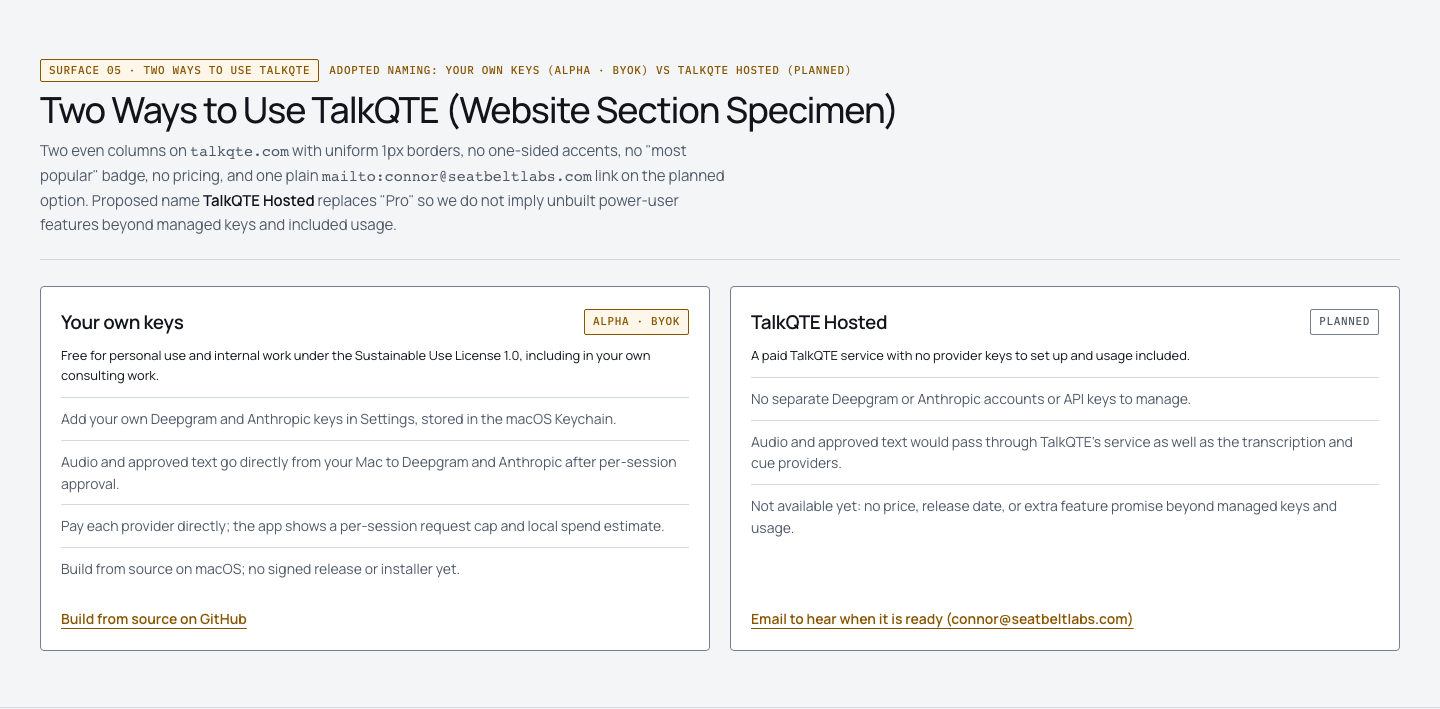
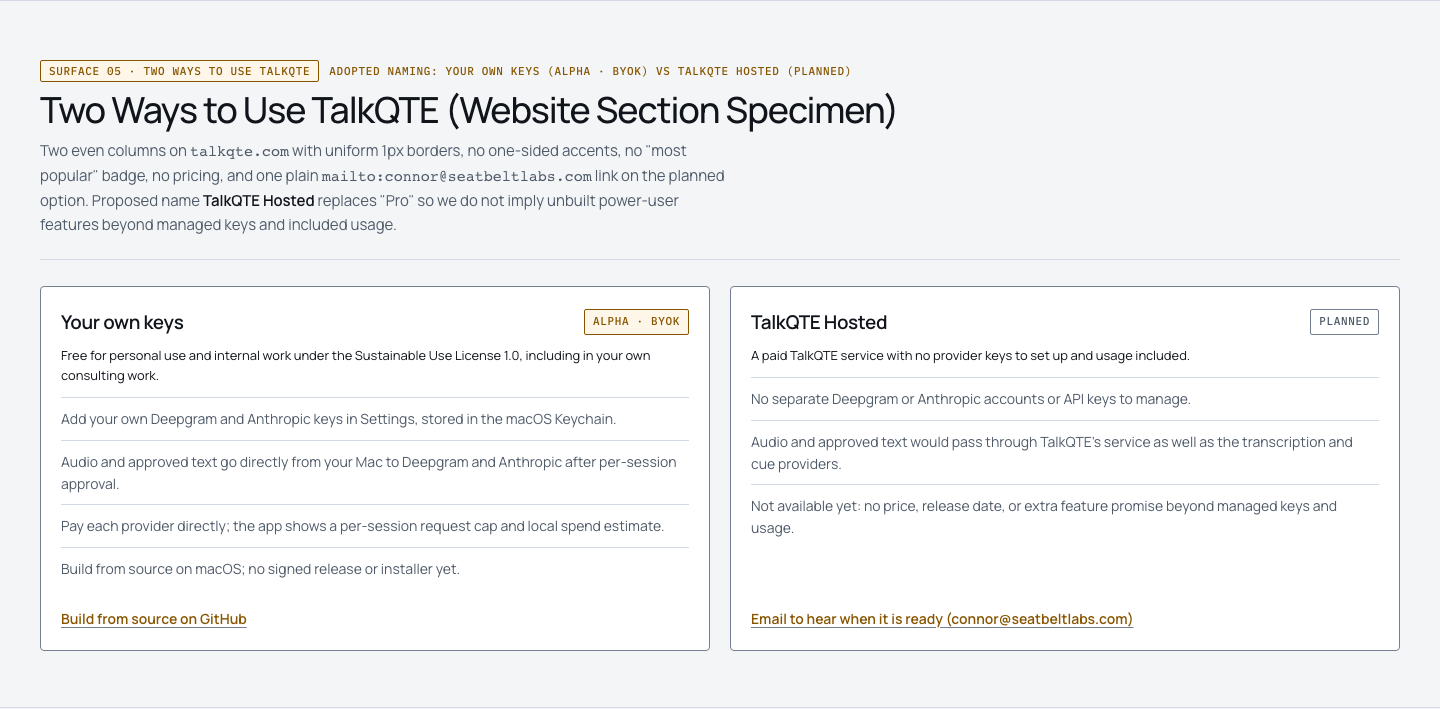
docs(brand): motion for the cue line and hovers

Changed region(s): [[0.0312, 0.0931, 0.5938, 0.1241], [0.5312, 0.6516, 0.5938, 0.6827]]

diff --git a/docs/brand/index.html b/docs/brand/index.html
@@ -2001,21 +2001,119 @@
       .sm-btn-p {
         padding: 11px 20px;
         border-radius: var(--d-rc);
-        background: var(--d-btn-bg);
+        background-color: var(--d-btn-bg);
+        background-image: linear-gradient(var(--d-paper), var(--d-paper));
+        background-repeat: no-repeat;
+        background-size: 0% 100%;
+        background-position: right;
         color: var(--d-btn-fg);
         border: 1px solid var(--d-btn-bg);
         font-size: 14px;
         font-weight: 600;
+        text-decoration: none;
+        transition:
+          background-size 200ms cubic-bezier(0.65, 0, 0.35, 1),
+          color 200ms cubic-bezier(0.65, 0, 0.35, 1),
+          border-color 200ms ease;
+      }
+
+      .sm-btn-p:hover {
+        background-size: 100% 100%;
+        background-position: left;
+        color: var(--d-btn-bg);
+        border-color: var(--d-btn-bg);
+        text-decoration: none;
       }
 
       .sm-btn-s {
         padding: 11px 20px;
         border-radius: var(--d-rc);
-        background: transparent;
+        background-color: transparent;
+        background-image: linear-gradient(var(--d-ink), var(--d-ink));
+        background-repeat: no-repeat;
+        background-size: 0% 100%;
+        background-position: right;
         color: var(--d-ink);
         border: 1px solid var(--d-border);
         font-size: 14px;
         font-weight: 600;
+        text-decoration: none;
+        transition:
+          background-size 200ms cubic-bezier(0.65, 0, 0.35, 1),
+          color 200ms cubic-bezier(0.65, 0, 0.35, 1),
+          border-color 200ms ease;
+      }
+
+      .sm-btn-s:hover {
+        background-size: 100% 100%;
+        background-position: left;
+        color: var(--d-paper);
+        border-color: var(--d-ink);
+        text-decoration: none;
+      }
+
+      @keyframes cue-time-run {
+        0% {
+          transform: scaleX(1);
+        }
+        88% {
+          transform: scaleX(0);
+        }
+        97% {
+          transform: scaleX(0);
+        }
+        100% {
+          transform: scaleX(1);
+        }
+      }
+
+      .sm-cue-fill {
+        display: block;
+        width: 100%;
+        height: 100%;
+        background: var(--d-cue-fill);
+        border-radius: 1px;
+        transform-origin: left center;
+        animation: cue-time-run 18s linear infinite;
+      }
+
+      .sm-cue-window:hover .sm-cue-fill,
+      .sm-cue-window:focus-within .sm-cue-fill {
+        animation-play-state: paused;
+      }
+
+      .sm-text-link {
+        display: inline-block;
+        font-size: 14px;
+        font-weight: 600;
+        color: var(--g-amber-ink);
+        text-decoration-line: underline;
+        text-decoration-color: var(--g-border);
+        text-underline-offset: 0.24em;
+        text-decoration-thickness: 1px;
+        transition:
+          color 150ms ease,
+          text-decoration-color 150ms ease,
+          text-underline-offset 150ms ease,
+          text-decoration-thickness 150ms ease;
+      }
+
+      .sm-text-link:hover {
+        text-decoration-color: currentColor;
+        text-underline-offset: 0.34em;
+        text-decoration-thickness: 2px;
+      }
+
+      @media (prefers-reduced-motion: reduce) {
+        .sm-cue-fill {
+          animation: none;
+          transform: scaleX(0.62);
+        }
+        .sm-btn-p,
+        .sm-btn-s,
+        .sm-text-link {
+          transition: none;
+        }
       }
 
       .sm-cue-fig {
@@ -2688,19 +2786,21 @@
                 TalkQTE
               </span>
               <div class="sm-nav">
-                <span>Concept</span><span>How a cue works</span><span>Today</span><span>Where your meeting goes</span><span>Direction</span><span>GitHub</span>
+                <span>How it works</span><span>Two ways</span><span>Alpha scope</span><span>Where your meeting goes</span><span>GitHub</span>
               </div>
             </div>
             <div class="sm-hero">
               <div>
-                <div class="sm-eyebrow">Early development · nothing to download yet</div>
                 <div class="sm-h1">Stay grounded. Respond in the moment.</div>
-                <p class="sm-lead">TalkQTE is being built to help keep meetings on target, with the right cue at the right moment. It runs on your own machine beside the call.</p>
-                <p class="sm-note">Nothing is released yet. Below, each part is labelled <strong>In source, not yet released</strong>, or <strong>Planned</strong>.</p>
+                <p class="sm-lead">TalkQTE surfaces one timely, source-backed cue beside a live conversation so you can keep the meeting on target without leaving the call.</p>
+                <p class="sm-note">It runs on your Mac beside the meeting, not as a participant in the room. In the alpha, you build from source and connect your own keys for transcription and cues.</p>
                 <div class="sm-actions">
-                  <span class="sm-btn-p">Follow development on GitHub</span>
-                  <span class="sm-btn-s">See the concept</span>
+                  <span class="sm-btn-p">Try the alpha on GitHub</span>
+                  <span class="sm-btn-s">See how it works</span>
                 </div>
+                <p class="sm-note" style="margin-top: 12px; font-family: var(--font-mono); font-size: 11px">
+                  Hover: 200ms left-sweep fill, no button underline · Text links: 150ms animated underline · Cue bar: 18s CSS scaleX run-down, pauses on hover/focus-within (static under reduced motion).
+                </p>
               </div>
               <div class="sm-cue-fig">
                 <div class="sm-cue-window">
@@ -2710,7 +2810,7 @@
                   </div>
                   <div class="sm-cue-text">Earlier, legal said review takes two days.</div>
                   <div class="nb-cue-time">
-                    <span class="nb-cue-track"><span class="nb-cue-fill"></span></span>
+                    <span class="nb-cue-track"><span class="sm-cue-fill"></span></span>
                     <span class="sm-cue-hold">Hold</span>
                   </div>
                   <div class="nb-cue-source">
@@ -2718,7 +2818,7 @@
                     <p class="nb-cue-source-quote">“Can we commit to Friday?”</p>
                   </div>
                 </div>
-                <p class="sm-cue-cap">Concept: a fictional example, not the current prototype.</p>
+                <p class="sm-cue-cap">Fictional example of a cue beside a live call.</p>
               </div>
             </div>
           </div>
@@ -4376,7 +4476,7 @@ Date: 2026-11-23 · Length: 06:42
                 <li>Pay each provider directly; the app shows a per-session request cap and local spend estimate.</li>
                 <li>Build from source on macOS; no signed release or installer yet.</li>
               </ul>
-              <span style="font-size: 14px; font-weight: 600; color: var(--g-amber-ink); text-decoration: underline; text-underline-offset: 4px">Build from source on GitHub</span>
+              <span class="sm-text-link">Build from source on GitHub</span>
             </article>
 
             <article class="tw-card">
@@ -4392,7 +4492,7 @@ Date: 2026-11-23 · Length: 06:42
                 <li>Audio and approved text would pass through TalkQTE's service as well as the transcription and cue providers.</li>
                 <li>Not available yet: no price, release date, or extra feature promise beyond managed keys and usage.</li>
               </ul>
-              <span style="font-size: 14px; font-weight: 600; color: var(--g-amber-ink); text-decoration: underline; text-underline-offset: 4px">Email to hear when it is ready (connor@seatbeltlabs.com)</span>
+              <span class="sm-text-link">Email to hear when it is ready (connor@seatbeltlabs.com)</span>
             </article>
           </div>
         </div>

diff --git a/docs/brand/BRAND_GUIDE.md b/docs/brand/BRAND_GUIDE.md
@@ -294,10 +294,14 @@ Used both as a two-column section on `talkqte.com` ([images/two-ways.png](images
 
 ## 10. Motion, Voice, and Accessibility
 
-### Motion
+### Motion and Hover States
 
-- **Reduced motion first.** Every screen, cue, and control stays fully readable and operable under `prefers-reduced-motion: reduce`.
-- **Website (`talkqte.com`):** Zero animations, zero CSS transitions, and no smooth scrolling.
+- **Reduced motion first.** Every screen, cue, and control stays fully readable and operable under `prefers-reduced-motion: reduce`, with zero running animations and zero transition durations anywhere (instant hover states and a static `62%` cue bar on `talkqte.com`).
+- **Website (`talkqte.com`):** No smooth scrolling and zero scripts. Motion is strictly scoped to three CSS-only elements:
+  - **Hero cue time line:** `@keyframes cue-time-run` (`18s linear infinite`, `transform: scaleX(1)` to `scaleX(0)` from `0%`–`88%`, brief empty hold `88%`–`97%`, crisp reset to full at `100%`, `transform-origin: left center`). Pauses on `.cue-window:hover` and `:focus-within` (as Hold does). Zero layout shift; nothing is conveyed by motion alone.
+  - **Button hover (studio sweep):** Left-to-right fill sweep via `linear-gradient` `background-size` (`0% 100%` right to `100% 100%` left over `200ms cubic-bezier(0.65, 0, 0.35, 1)` on `background-size`, `color`, `border-color`), matching Seatbelt Labs' sweep pattern. **No text underline on button hover.** Label vs fill contrast stays `>= 10.18:1` (`>= 4.5:1`) in both rest and hover states across light and dark modes (Light primary: `#FFFFFF`/`#11151B` ↔ `#11151B`/`#FFFFFF` `18.31:1`; Light secondary: `#11151B`/`#FFFFFF` ↔ `#FFFFFF`/`#11151B` `18.31:1`; Dark primary: `#0D1014`/`#EBB45B` ↔ `#EBB45B`/`#0D1014` `10.18:1`; Dark secondary: `#F5F7FA`/`#0D1014` ↔ `#0D1014`/`#F5F7FA` `17.77:1`). `:focus-visible` retains the `3px solid --focus` outline unreplaced by hover.
+  - **Text link hover:** Keeps the underline and transitions `color`, `text-decoration-color`, `text-underline-offset`, and `text-decoration-thickness` over `150ms ease` (`<= 250ms`).
+- **Hero framing:** No status eyebrow sits above the hero `h1` headline on `talkqte.com`; alpha is stated once in the hero body line beneath the headline.
 - **Desktop app:** Every timing in [DESIGN.md](../../DESIGN.md) stays authoritative: notebook cue arrival (`200ms` move / `480ms` widen), dock drawer expansion (`300ms`, source follows `90ms` later), word darkening from `>= 55%` (`3.2:1` large) or `>= 68%` (`4.6:1` smaller), Hold fill (`560ms`), answer arrival (`380ms`), cue fold leave (`190ms`; macOS dock waits `220ms`), and four-step time line under reduced motion. No bounce, pulsing, or celebratory animation.
 
 ### Voice and Copy Rules
